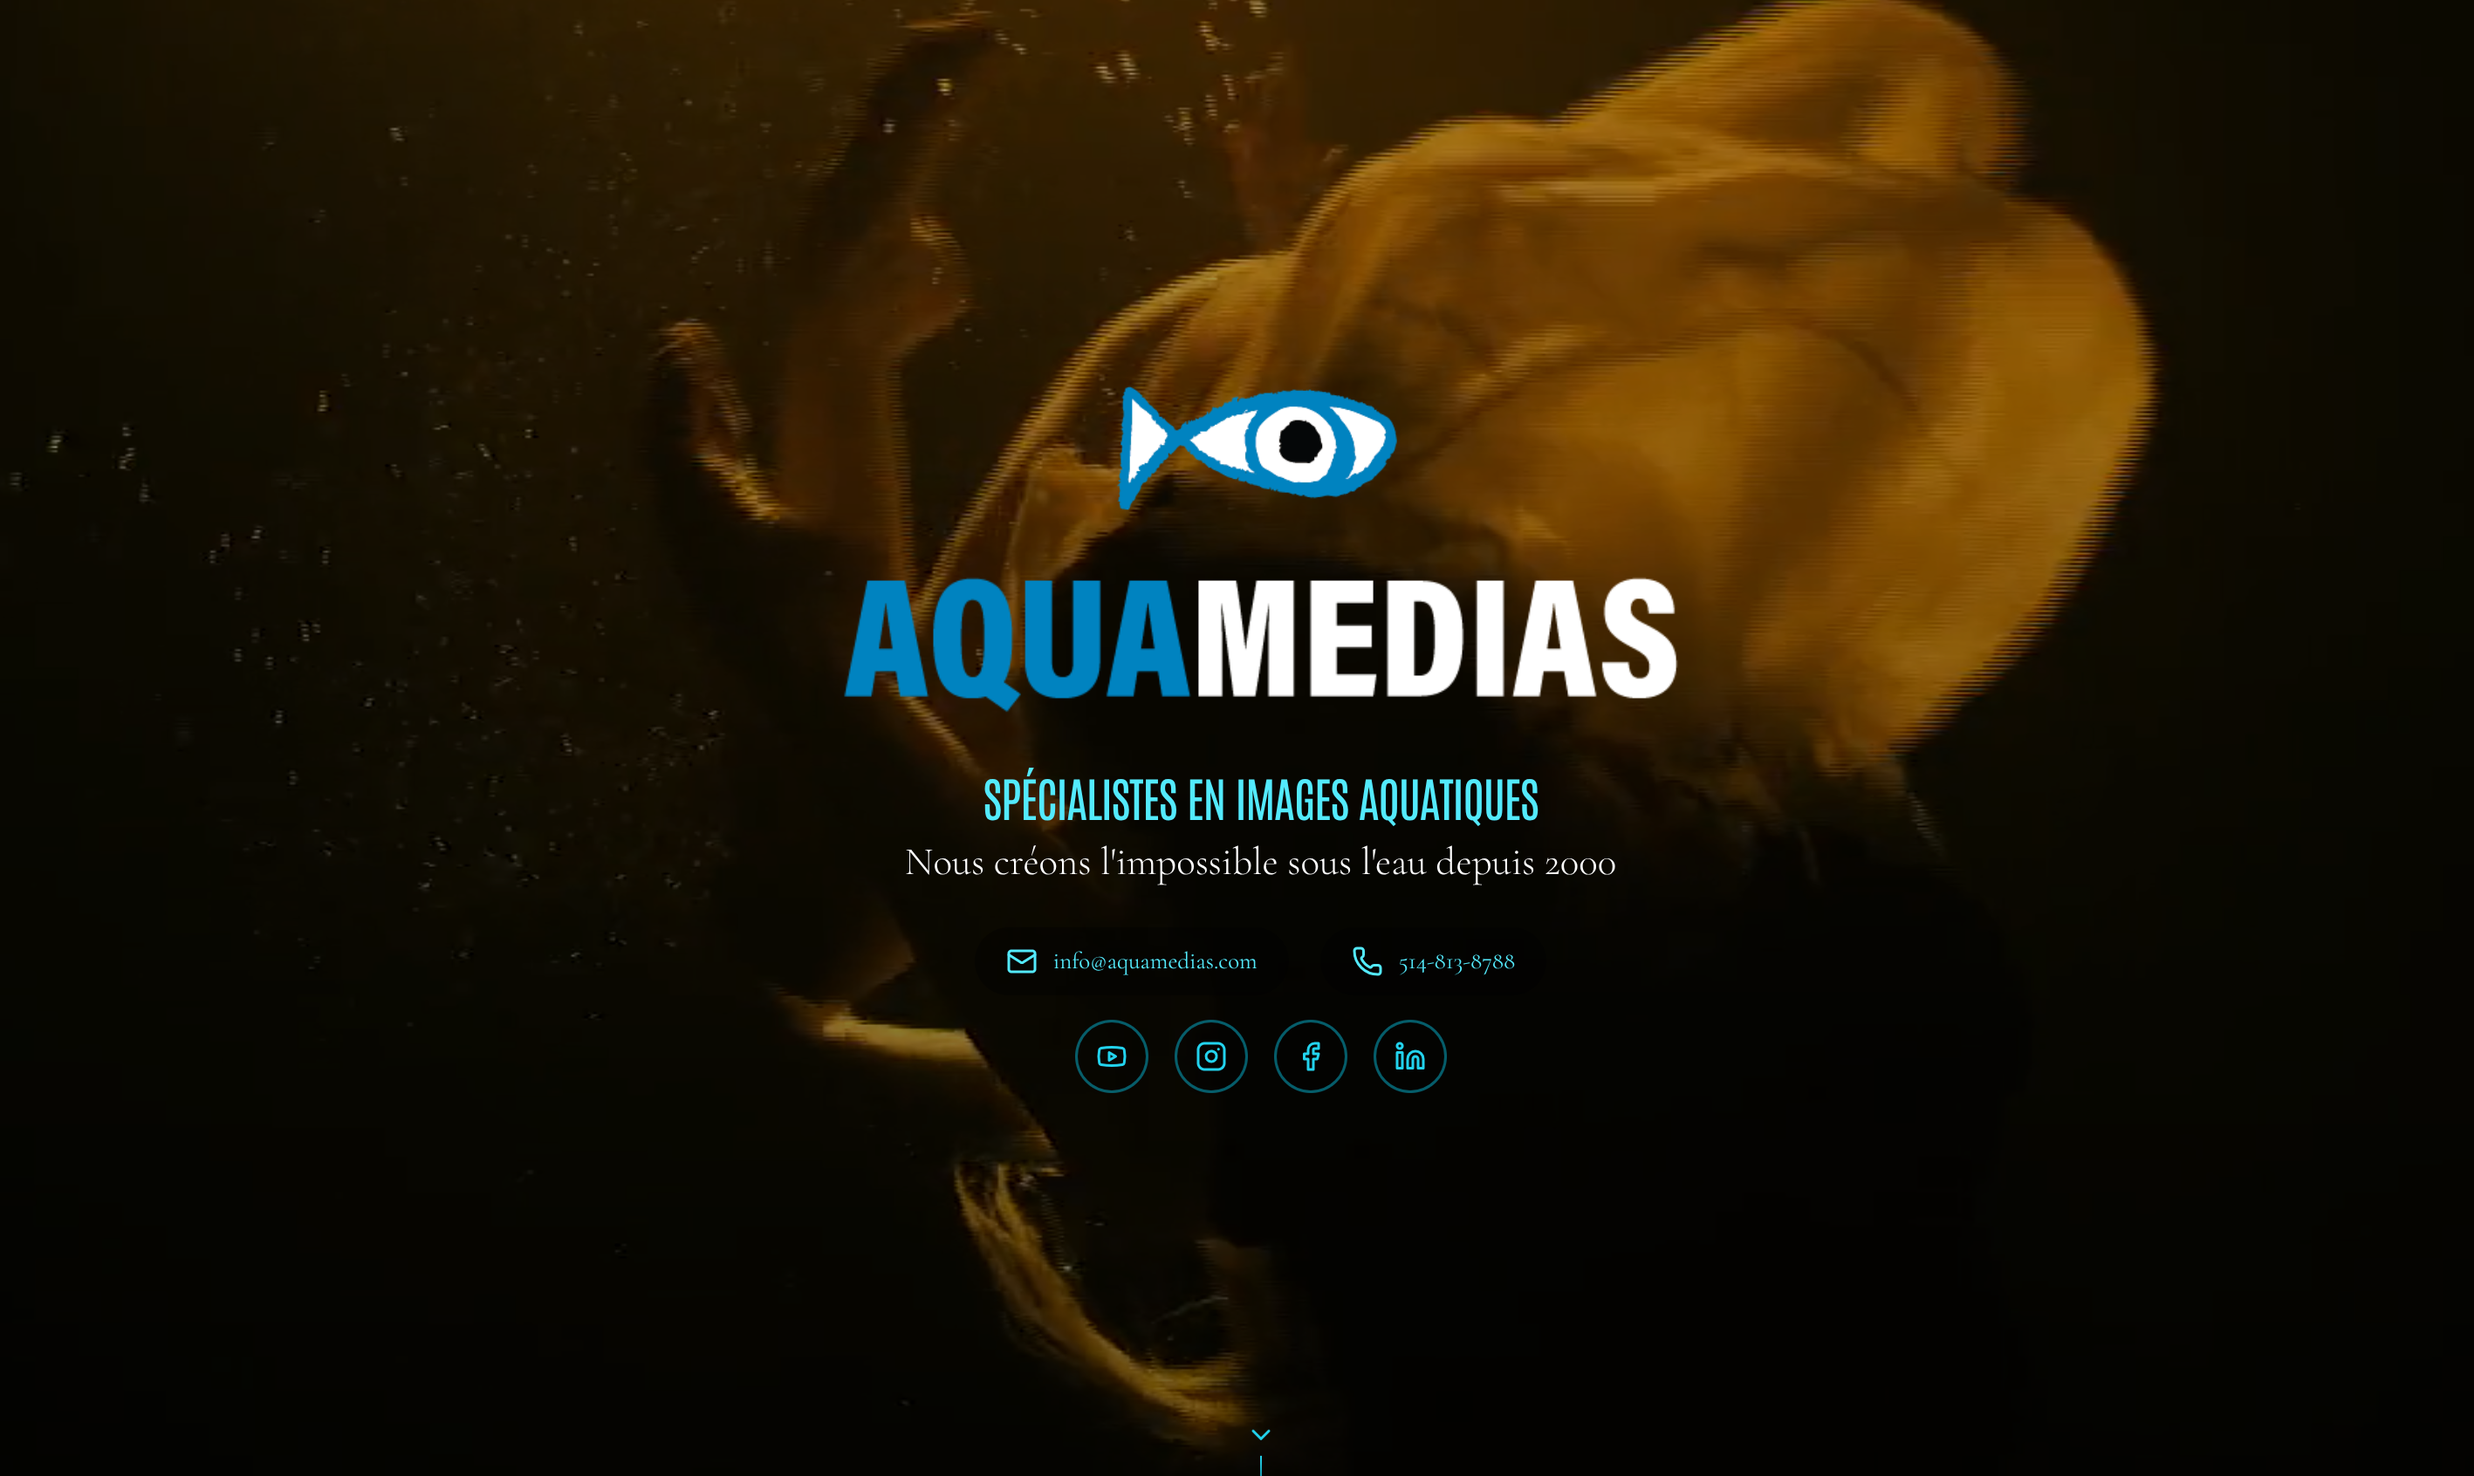
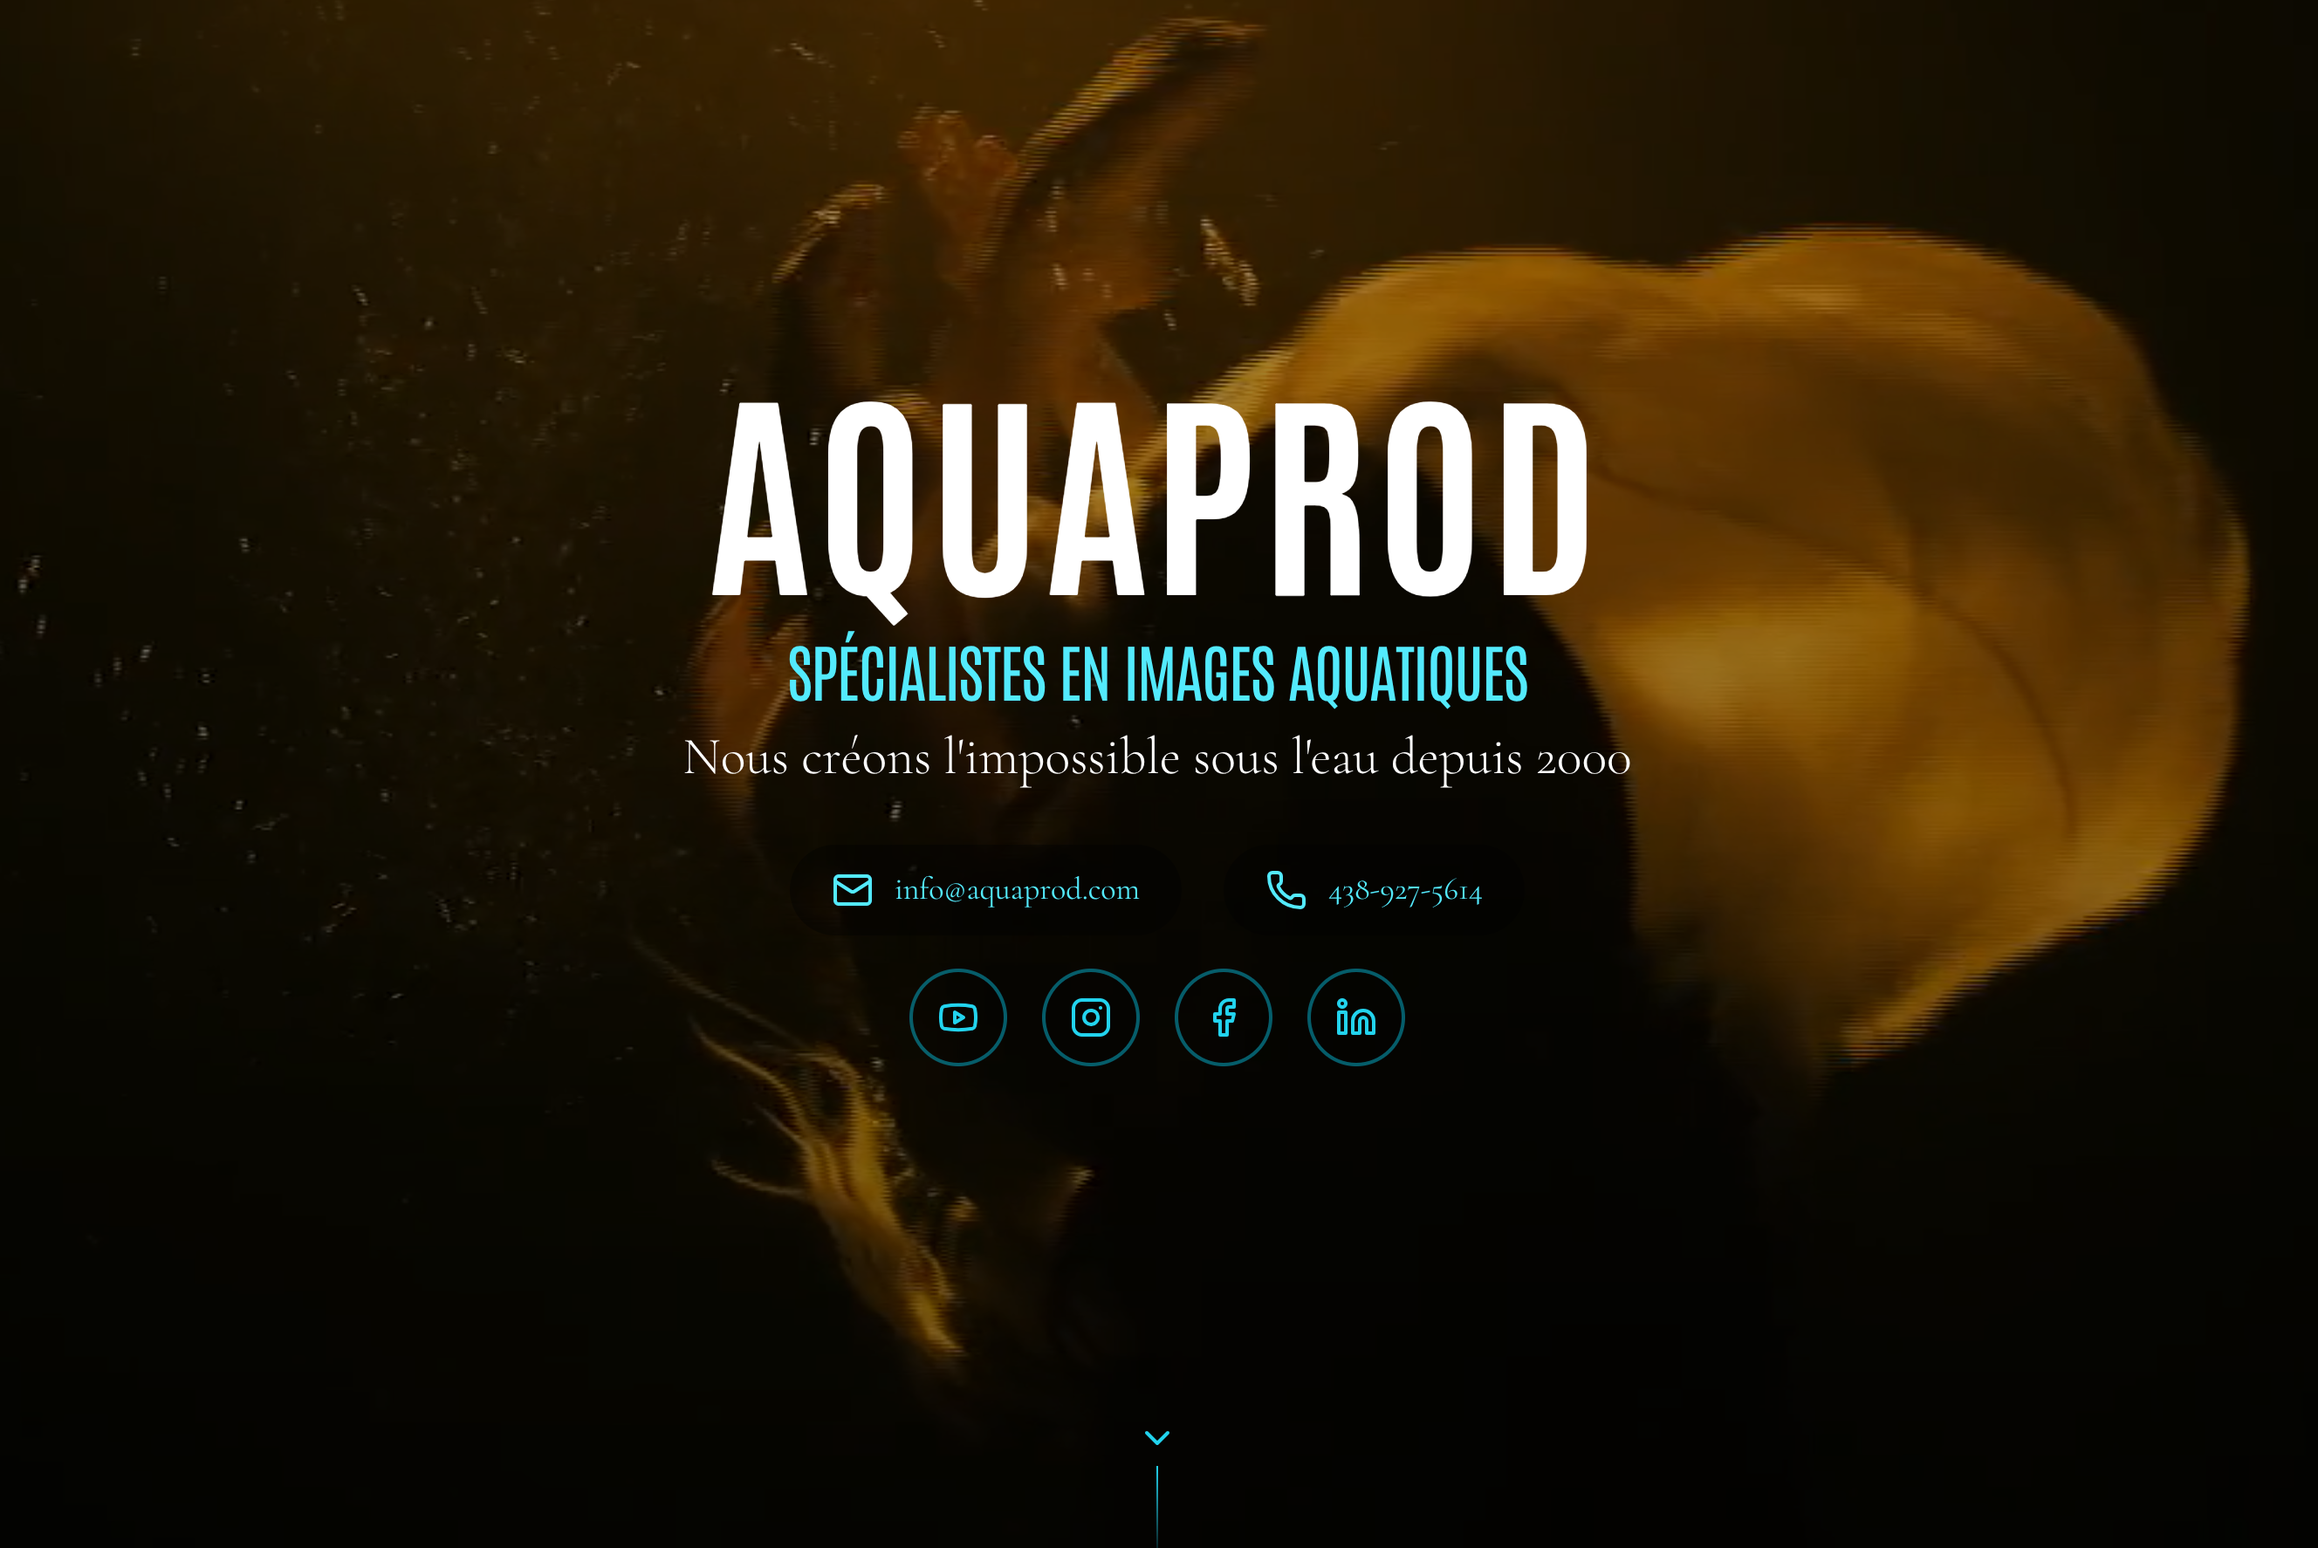
Add new projects and update portfolio: Organisme communautaire, Dashboard financier, Catherine François, rename Aquamedias to AquaProd

diff --git a/components/Modal.tsx b/components/Modal.tsx
@@ -19,13 +19,31 @@ interface ModalProps {
 
 const projects: Project[] = [
   {
-    name: "Aquamedias",
-    description: "Images sous-marines",
+    name: "Organisme communautaire",
+    description: "Gestion d'organisme",
     tags: ["En construction", "Prototype"],
     color: "#4A90E2",
+    imageUrl: "/images/aide-screenshot.png",
+    mobileImageUrl: "/images/m-aide-screenshot.png",
+    url: "https://aideanonyme.netlify.app/",
+  },
+  {
+    name: "Dashboard financier",
+    description: "Outils de gestion",
+    tags: ["Prototype", "En construction"],
+    color: "#9B59B6",
+    imageUrl: "/images/dashboard-screenshot.png",
+    mobileImageUrl: "/images/m-dashboard-screenshot.png",
+    url: "https://demodashboardfinance.netlify.app/",
+  },
+  {
+    name: "AquaProd",
+    description: "Images sous-marines",
+    tags: ["En construction", "Prototype"],
+    color: "#F39C12",
     imageUrl: "/images/aquamedias-screenshot.png",
     mobileImageUrl: "/images/m-aquamedias-screenshot.png",
-    url: "https://aquamedias.netlify.app/",
+    url: "https://aquaprod.netlify.app/",
   },
   {
     name: "Grands Prix Cyclistes",
@@ -35,6 +53,15 @@ const projects: Project[] = [
     imageUrl: "/images/grandsprixcyclistes-screenshot.png",
     mobileImageUrl: "/images/m-grandsprixcyclistes-screenshot.png",
     url: "https://www.gpcqm-mtl.ca/",
+  },
+  {
+    name: "Catherine François",
+    description: "Peintre",
+    tags: ["Site Gallerie"],
+    color: "#4A90E2",
+    imageUrl: "/images/cathfrancois-screenshot.png",
+    mobileImageUrl: "/images/m-cathfrancois-screenshot.png",
+    url: "https://cathfrancois.com/",
   },
   {
     name: "Jaxa Gomme Balloune",
